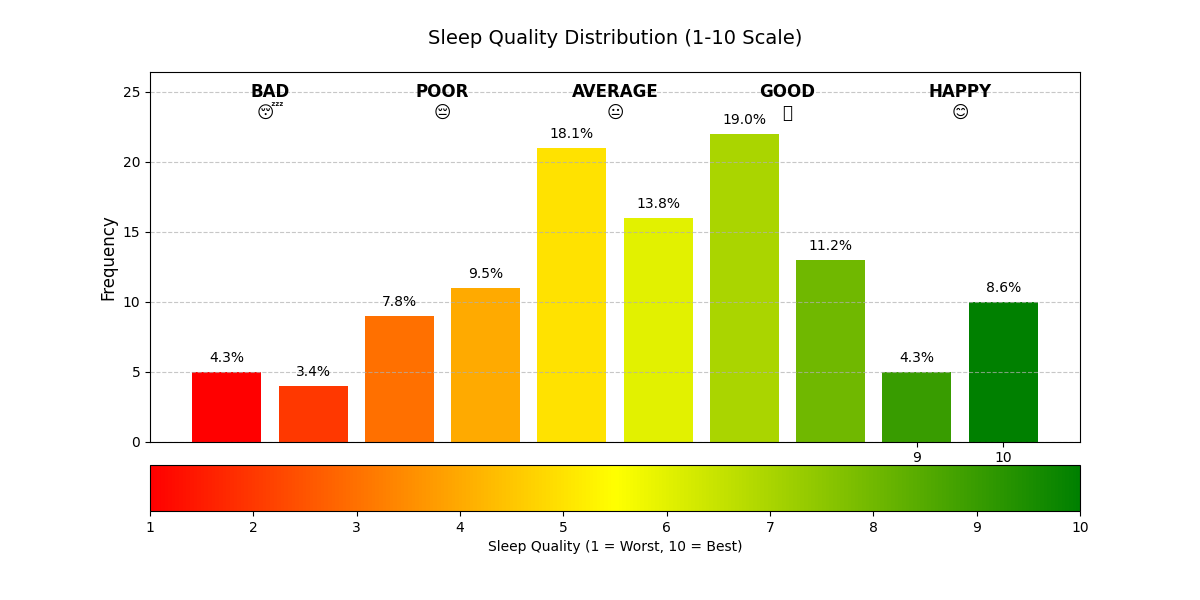
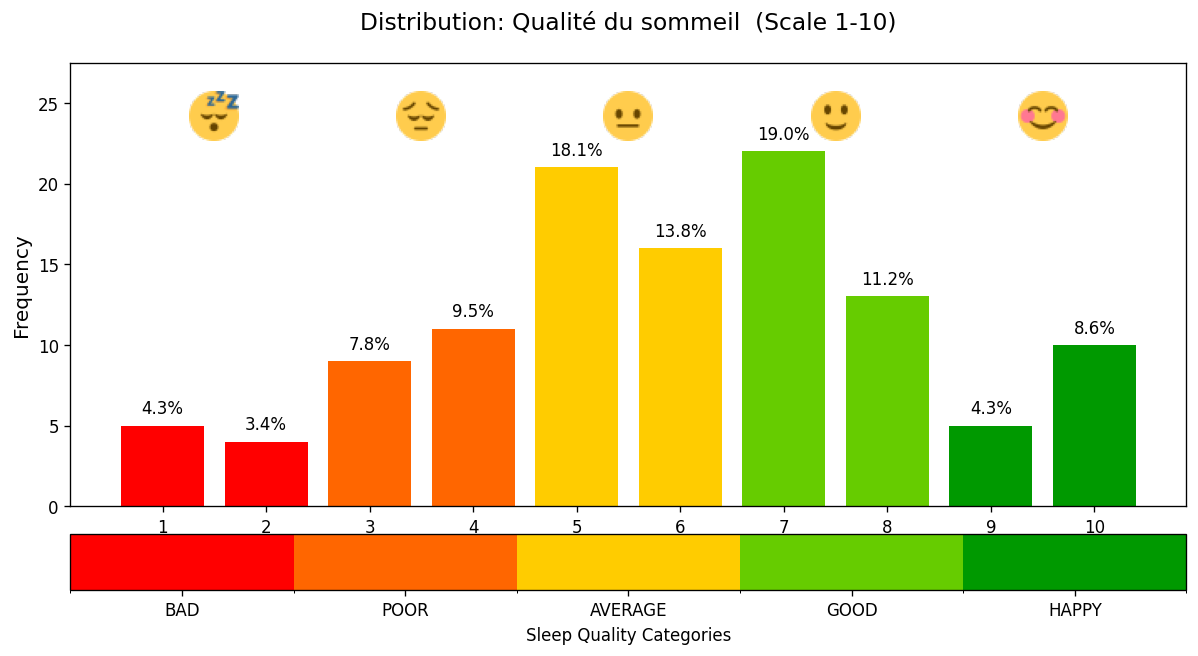
emojis on data for scale from 1 to 10

diff --git a/analysis.py b/analysis.py
@@ -23,6 +23,7 @@ data = mkdn.Document()
 stats = mkdn.Document()
 MD_DIR = "markdown"
 ASSETS_DIR_NAME = "assets"
+RESOURCES_DIR_NAME = "resources"
 time_generated = datetime.datetime.now().strftime("%d/%m/%Y à %H:%M")
 for markdown in [doc, data, stats]:
     markdown.add_heading(f"Analyse des données - Généré le {time_generated}")
@@ -503,66 +504,68 @@ class DataManager:
             plt.savefig(f"{ASSETS_DIR_NAME}/pie_{store.name["format"]}.png")
 
         elif store.name["format"] == "QDS":
-            from matplotlib.colors import LinearSegmentedColormap
+            from matplotlib.colors import LinearSegmentedColormap, BoundaryNorm
+            from matplotlib.offsetbox import OffsetImage, AnnotationBbox
+            from io import BytesIO
 
-            scores = list(range(1, 11))
-            frequencies = [collections.Counter(store.data).get(i, 0) for i in range(1, 11)]
-            total = sum(frequencies)
-            percentages = [f / total * 100 for f in frequencies]
+            import cairosvg
+
+            def load_svg(svg_path, size=(30, 30)):
+                png_data = cairosvg.svg2png(url=svg_path, output_width=size[0], output_height=size[1])
+                return plt.imread(BytesIO(png_data))
 
             categories = {
-                'BAD': [1, 2],
-                'POOR': [3, 4],
-                'AVERAGE': [5, 6],
-                'GOOD': [7, 8],
-                'HAPPY': [9, 10]
+                'BAD': (1, 2),
+                'POOR': (3, 4),
+                'AVERAGE': (5, 6),
+                'GOOD': (7, 8),
+                'HAPPY': (9, 10)
             }
 
-            emojis = {
-                'BAD': '😴',
-                'POOR': '😔',
-                'AVERAGE': '😐',
-                'GOOD': '🙂',
-                'HAPPY': '😊'
-            }
+            scores = list(range(1, 11))
+            frequencies = [collections.Counter(store.data).get(score, 0) for score in scores]
+            total_responses = sum(frequencies)
+            percentages = [freq / total_responses * 100 for freq in frequencies]
+            max_freq = max(frequencies)
 
-            colors = LinearSegmentedColormap.from_list('sleep_quality', ['red', 'yellow', 'green'])
-            color_values = [colors(i/9) for i in range(10)]
+            category_colors = ['#ff0000', '#ff6600', '#ffcc00', '#66cc00', '#009900']
+            cmap = LinearSegmentedColormap.from_list('sleep_quality', category_colors, N=len(categories))
 
-            # Create the figure
+            bounds = [1, 3, 5, 7, 9, 11]
+            norm = BoundaryNorm(bounds, len(categories))
+
+            # Plot setup
             fig, ax = plt.subplots(figsize=(12, 6))
+            bars = ax.bar(scores, frequencies, color=[cmap(norm(score)) for score in scores])
 
-            # Plot bars with color gradient
-            bars = ax.bar(scores, frequencies, color=color_values)
-
-            # Add percentage labels on top of bars
-            for i, (score, freq, percent) in enumerate(zip(scores, frequencies, percentages)):
+            # Add percentage labels
+            for score, freq, percent in zip(scores, frequencies, percentages):
                 ax.text(score, freq + 0.5, f'{percent:.1f}%', ha='center', va='bottom')
 
-            # Add category labels and emojis
-            y_pos = max(frequencies) * 1.1
-            for cat, scores in categories.items():
-                first = scores[0]
-                last = scores[-1]
-                center = (first + last) / 2
-                ax.text(center, y_pos, f'{cat}\n{emojis[cat]}', ha='center', va='center',
-                        fontsize=12, fontweight='bold', fontfamily='Noto Color Emoji')
+            # Add category icons
+            y_pos = max_freq * 1.1
+            for category, (start, end) in categories.items():
+                center = (start + end) / 2
+                src = load_svg(f"./resources/{category}.svg")
+                imagebox = OffsetImage(src, zoom=1.0)
+                ax.add_artist(AnnotationBbox(imagebox, (center, y_pos), frameon=False))
 
-            # Customize the plot
-            ax.set_title('Sleep Quality Distribution (1-10 Scale)', fontsize=14, pad=20)
+            # Axes and titles
+            ax.set_title(f'Distribution: {store.name["default"]} (Scale 1-10)', fontsize=14, pad=20)
             ax.set_xlabel('Sleep Quality Score', fontsize=12)
             ax.set_ylabel('Frequency', fontsize=12)
             ax.set_xticks(scores)
-            ax.set_ylim(0, max(frequencies) * 1.2)
-            ax.grid(axis='y', linestyle='--', alpha=0.7)
+            ax.set_ylim(0, max_freq * 1.25)
 
-            # Add a colorbar to show the quality scale
-            sm = plt.cm.ScalarMappable(cmap=colors, norm=plt.Normalize(1, 10))
+            # Color bar (legend)
+            sm = plt.cm.ScalarMappable(cmap=cmap, norm=norm)
             sm.set_array([])
-            cbar = plt.colorbar(sm, ax=ax, orientation='horizontal', pad=0.05)
-            cbar.set_label('Sleep Quality (1 = Worst, 10 = Best)')
+            cbar = plt.colorbar(sm, ax=ax, orientation='horizontal', pad=0.05,
+                                ticks=[2, 4, 6, 8, 10])
+            cbar.set_label('Sleep Quality Categories')
+            cbar.ax.set_xticklabels(['BAD', 'POOR', 'AVERAGE', 'GOOD', 'HAPPY'])
 
-            plt.savefig(f"{ASSETS_DIR_NAME}/scale_{store.name["format"]}.png")
+            plt.savefig(f"{ASSETS_DIR_NAME}/scale_{store.name['format']}.png", dpi=120, bbox_inches='tight')
 
 
 class StoreCollection(DataManager):
